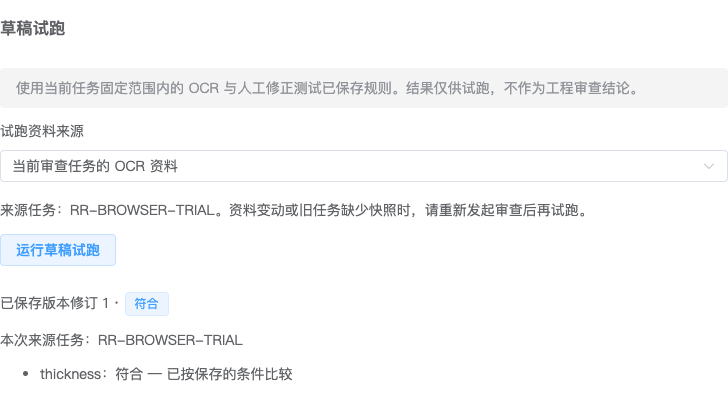
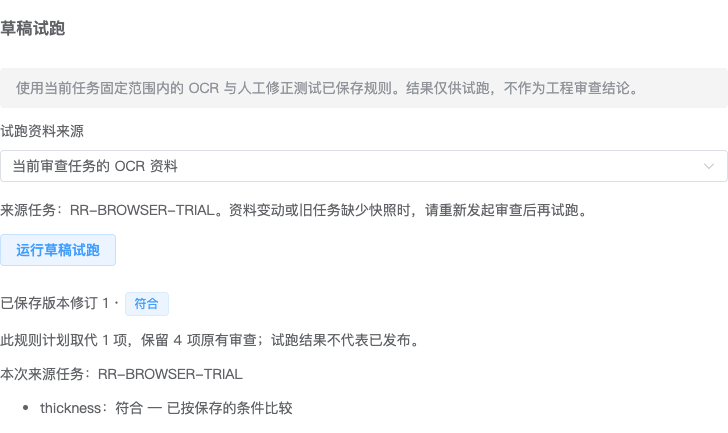
feat(ui): select authorized atomic replacements in rule drafts

diff --git a/frontend/src/views/AIReviewB/ProjectRuleEditor.vue b/frontend/src/views/AIReviewB/ProjectRuleEditor.vue
@@ -22,6 +22,7 @@ import {
   listProjectRules,
   saveProjectRule,
   type ProjectRule,
+  type RuleAtomicOption,
   type RuleDraftInput
 } from '@/api/aicheck/projectRules'
 
@@ -31,6 +32,13 @@ const visible = ref(false)
 const busy = ref(false)
 const error = ref('')
 const rules = ref<ProjectRule[]>([])
+const atomicOptions = ref<RuleAtomicOption[]>([])
+const setAtomicBinding = (index: number, value: string) => {
+  const check = form.value.executionConditions?.checks[index]
+  if (!check) return
+  if (value) check.atomicCheckId = value
+  else delete check.atomicCheckId
+}
 const selectedId = ref('')
 const form = ref<RuleDraftInput>({ inspectionItem: '', standardText: '', witnessText: '' })
 const baseline = ref(JSON.stringify(form.value))
@@ -81,6 +89,9 @@ const open = async () => {
   try {
     const response = await listProjectRules(props.projectId)
     if (revision !== contextRevision) return
+    atomicOptions.value = (response.data.atomicChecks || []).filter(
+      (item) => item.nodeId === props.nodeId
+    )
     rules.value = response.data.items.filter((rule) => rule.nodeIds.includes(props.nodeId))
     setForm(rules.value[0])
   } catch (cause) {
@@ -133,6 +144,7 @@ watch(
     visible.value = false
     busy.value = false
     rules.value = []
+    atomicOptions.value = []
     setForm()
   }
 )
@@ -208,8 +220,27 @@ watch(
           >
         </ElFormItem>
         <template v-if="form.executionConditions">
+          <p
+            >可选择要取代的原子审查项。开始绑定后，每个检查项都需选择；未被取代的原子项继续保留。当前仅供试跑，尚不能正式发布。</p
+          >
           <div v-for="(check, index) in form.executionConditions.checks" :key="check.id">
             <h3>检查项 {{ index + 1 }}</h3>
+            <ElFormItem :label="`取代的原子审查项 ${index + 1}（可选）`">
+              <ElSelect
+                :model-value="check.atomicCheckId"
+                clearable
+                filterable
+                placeholder="选择当前节点的审查项"
+                @change="setAtomicBinding(index, $event)"
+              >
+                <ElOption
+                  v-for="item in atomicOptions"
+                  :key="item.id"
+                  :value="item.id"
+                  :label="`${item.id} · ${item.name}`"
+                />
+              </ElSelect>
+            </ElFormItem>
             <ConditionExpressionEditor
               :model-value="check"
               :grouped="false"

diff --git a/frontend/src/api/aicheck/projectRules.ts b/frontend/src/api/aicheck/projectRules.ts
@@ -1,6 +1,12 @@
 import request from '@/axios'
 import type { RuleConditions } from '@/views/AIReviewB/ruleConditionModel'
 
+export interface RuleAtomicOption {
+  id: string
+  name: string
+  nodeId: number
+}
+
 export interface ProjectRule {
   id: string
   projectId?: string
@@ -23,7 +29,7 @@ const headers = (etag?: string) => ({
   ...(etag ? { 'If-Match': etag } : {})
 })
 export const listProjectRules = (projectId: string) =>
-  request.get<{ items: ProjectRule[] }>({ url: base(projectId) })
+  request.get<{ items: ProjectRule[]; atomicChecks: RuleAtomicOption[] }>({ url: base(projectId) })
 export const createProjectRule = (projectId: string, nodeId: number, data: RuleDraftInput) =>
   request.post<{ rule: ProjectRule }>({
     url: base(projectId),
@@ -50,6 +56,7 @@ export interface RuleTrialResult {
   sourceReviewRunId?: string
   sourceSnapshotHash?: string
   factDiagnostics?: Record<string, string>
+  bindingPlan?: { replacements: Array<{ atomicCheckId: string }>; retainedAtomicCheckIds: string[] }
   checks: Array<{ id: string; field: string; result: string; reason: string }>
 }
 export const trialProjectRule = (

diff --git a/frontend/src/views/AIReviewB/RuleTrialPanel.vue b/frontend/src/views/AIReviewB/RuleTrialPanel.vue
@@ -215,6 +215,10 @@ const run = async () => {
         >已保存版本修订 {{ result.ruleRevision }} ·
         <ElTag>{{ labels[result.result] || result.result }}</ElTag></p
       >
+      <p v-if="result.bindingPlan"
+        >此规则计划取代 {{ result.bindingPlan.replacements.length }} 项，保留
+        {{ result.bindingPlan.retainedAtomicCheckIds.length }} 项原有审查；试跑结果不代表已发布。</p
+      >
       <p v-if="result.sourceReviewRunId">本次来源任务：{{ result.sourceReviewRunId }}</p>
       <ul v-if="Object.keys(result.factDiagnostics || {}).length">
         <li v-for="(reason, field) in result.factDiagnostics" :key="field"

diff --git a/frontend/src/views/AIReviewB/ruleConditionModel.ts b/frontend/src/views/AIReviewB/ruleConditionModel.ts
@@ -1,6 +1,7 @@
 export type ConditionValue = string | number | boolean
 export interface ConditionNode {
   id?: string
+  atomicCheckId?: string
   field?: string
   operator?: string
   expected?: ConditionValue | ConditionValue[]

diff --git a/backend/apps/api/project_rule_routes.py b/backend/apps/api/project_rule_routes.py
@@ -60,7 +60,12 @@ def list_project_rules(request: Request, project_id: str):
             continue
         if _guard(request, project_id, api.parse_rule_node_ids(rule.get("nodeIds"))) is None:
             items.append(api.versioned_record("rule-version", rule))
-    return ok({"items": sorted(items, key=api.rule_version_sort_key), "total": len(items)}, request)
+    pack = project.get("businessPackSnapshot") or api.load_business_pack(project.get("businessPackId") or api.DEFAULT_BUSINESS_PACK_ID)
+    allowed_nodes = {node_id for node_id in {row["nodeId"] for row in pack.get("atomicChecks") or []}
+                     if _guard(request, project_id, [node_id]) is None}
+    atomic_checks = [{"id": row["id"], "name": row.get("name") or row["id"], "nodeId": row["nodeId"]}
+                     for row in pack.get("atomicChecks") or [] if row["nodeId"] in allowed_nodes]
+    return ok({"items": sorted(items, key=api.rule_version_sort_key), "total": len(items), "atomicChecks": atomic_checks}, request)
 
 
 @project_rule_router.post("/projects/{project_id}/rules/versions")

diff --git a/backend/tests/test_contract.py b/backend/tests/test_contract.py
@@ -13362,7 +13362,10 @@ def test_lab_project_rule_draft_edit_requires_scope_and_revision(monkeypatch):
     body = {"inspectionItem": "焊工资格核对", "standardText": "核对资格覆盖范围", "nodeIds": [24]}
     rule = assert_ok(client.post(path, headers=headers, json=body))["rule"]
     assert rule["projectId"] == "P-2026-HDCP-001" and rule["status"] == "草稿"
-    assert rule["id"] in {row["id"] for row in assert_ok(client.get(path, headers=headers))["items"]}
+    listed = assert_ok(client.get(path, headers=headers))
+    assert rule["id"] in {row["id"] for row in listed["items"]}
+    assert {row["nodeId"] for row in listed["atomicChecks"]} == {24}
+    assert {row["id"] for row in listed["atomicChecks"]} == {f"AC-R24-0{i}" for i in range(1, 6)}
     assert_error(client.patch(f"{path}/{rule['id']}", headers=headers, json={"standardText": "新版"}), "VALIDATION_ERROR")
     updated = assert_ok(client.patch(f"{path}/{rule['id']}", headers={**headers, "If-Match": rule["etag"]},
                                     json={"standardText": "新版"}))["rule"]

diff --git a/docs/优化计划-焊接节点.md b/docs/优化计划-焊接节点.md
@@ -797,3 +797,11 @@ W1 之外已顺手完成：P9 R2 的 opinionSource 字段；F1 的 AI_FEEDBACK_R
 - 未配置資料庫留痕的本地模式明示 rawCapture.status=not_configured，不聲稱已完成原始留痕；不因此解除條件規則發布保護。
 - 條件與工具留痕 15 passed，Raw Vault／既有工具／巨石及重試 38 passed；包括原始資料核對、事件鏈驗證、保存失敗及判定例外。Ruff 289 / 289、diff check 通過。
 - 尚未驗收 PostgreSQL／MinIO 實機留痕、工具註冊及專用語義路由；未重跑完整後端或部署生產。
+
+### 原子項綁定選擇介面
+
+- 工程規則列表 API 附帶依工程／節點權限過濾的 atomicChecks（ID、名稱、節點）；前端再限目前節點。受限 R24 成員僅取得該節點五項。
+- 規則編輯器每個條件可選取要取代的原子項，支援搜尋／清除，清除會移除欄位而非保存空 ID。開始綁定後所有條件需明確對應的要求已提示；切換工程／節點會清除選項。
+- 試跑結果顯示替代項數及保留項數，保留尚未發布提示。前端型別支援 atomicCheckId 與 bindingPlan。
+- 本地 Chrome＋真實 API 驗證選取 R24-01、無 R25 選項、保存 ID、試跑取代 1 項／保留 4 項，以及原有 OCR／缺欄位／未保存流程；截圖已更新。權限與工程規則 API 11 passed，vue-tsc／ESLint／Stylelint／Ruff／diff check 通過。
+- 本次獨立 API／Vite 測試服務已停止。完整登入工作台、專用語義路由及正式發布驗收仍待完成，未部署生產。

diff --git a/docs/lab/README.md b/docs/lab/README.md
@@ -252,3 +252,11 @@ cd backend
 - 未配置資料庫留痕的本地模式明示 rawCapture.status=not_configured，不聲稱已完成原始留痕；不因此解除條件規則發布保護。
 - 條件與工具留痕 15 passed，Raw Vault／既有工具／巨石及重試 38 passed；包括原始資料核對、事件鏈驗證、保存失敗及判定例外。Ruff 289 / 289、diff check 通過。
 - 尚未驗收 PostgreSQL／MinIO 實機留痕、工具註冊及專用語義路由；未重跑完整後端或部署生產。
+
+### 原子項綁定選擇介面
+
+- 工程規則列表 API 附帶依工程／節點權限過濾的 atomicChecks（ID、名稱、節點）；前端再限目前節點。受限 R24 成員僅取得該節點五項。
+- 規則編輯器每個條件可選取要取代的原子項，支援搜尋／清除，清除會移除欄位而非保存空 ID。開始綁定後所有條件需明確對應的要求已提示；切換工程／節點會清除選項。
+- 試跑結果顯示替代項數及保留項數，保留尚未發布提示。前端型別支援 atomicCheckId 與 bindingPlan。
+- 本地 Chrome＋真實 API 驗證選取 R24-01、無 R25 選項、保存 ID、試跑取代 1 項／保留 4 項，以及原有 OCR／缺欄位／未保存流程；截圖已更新。權限與工程規則 API 11 passed，vue-tsc／ESLint／Stylelint／Ruff／diff check 通過。
+- 本次獨立 API／Vite 測試服務已停止。完整登入工作台、專用語義路由及正式發布驗收仍待完成，未部署生產。
